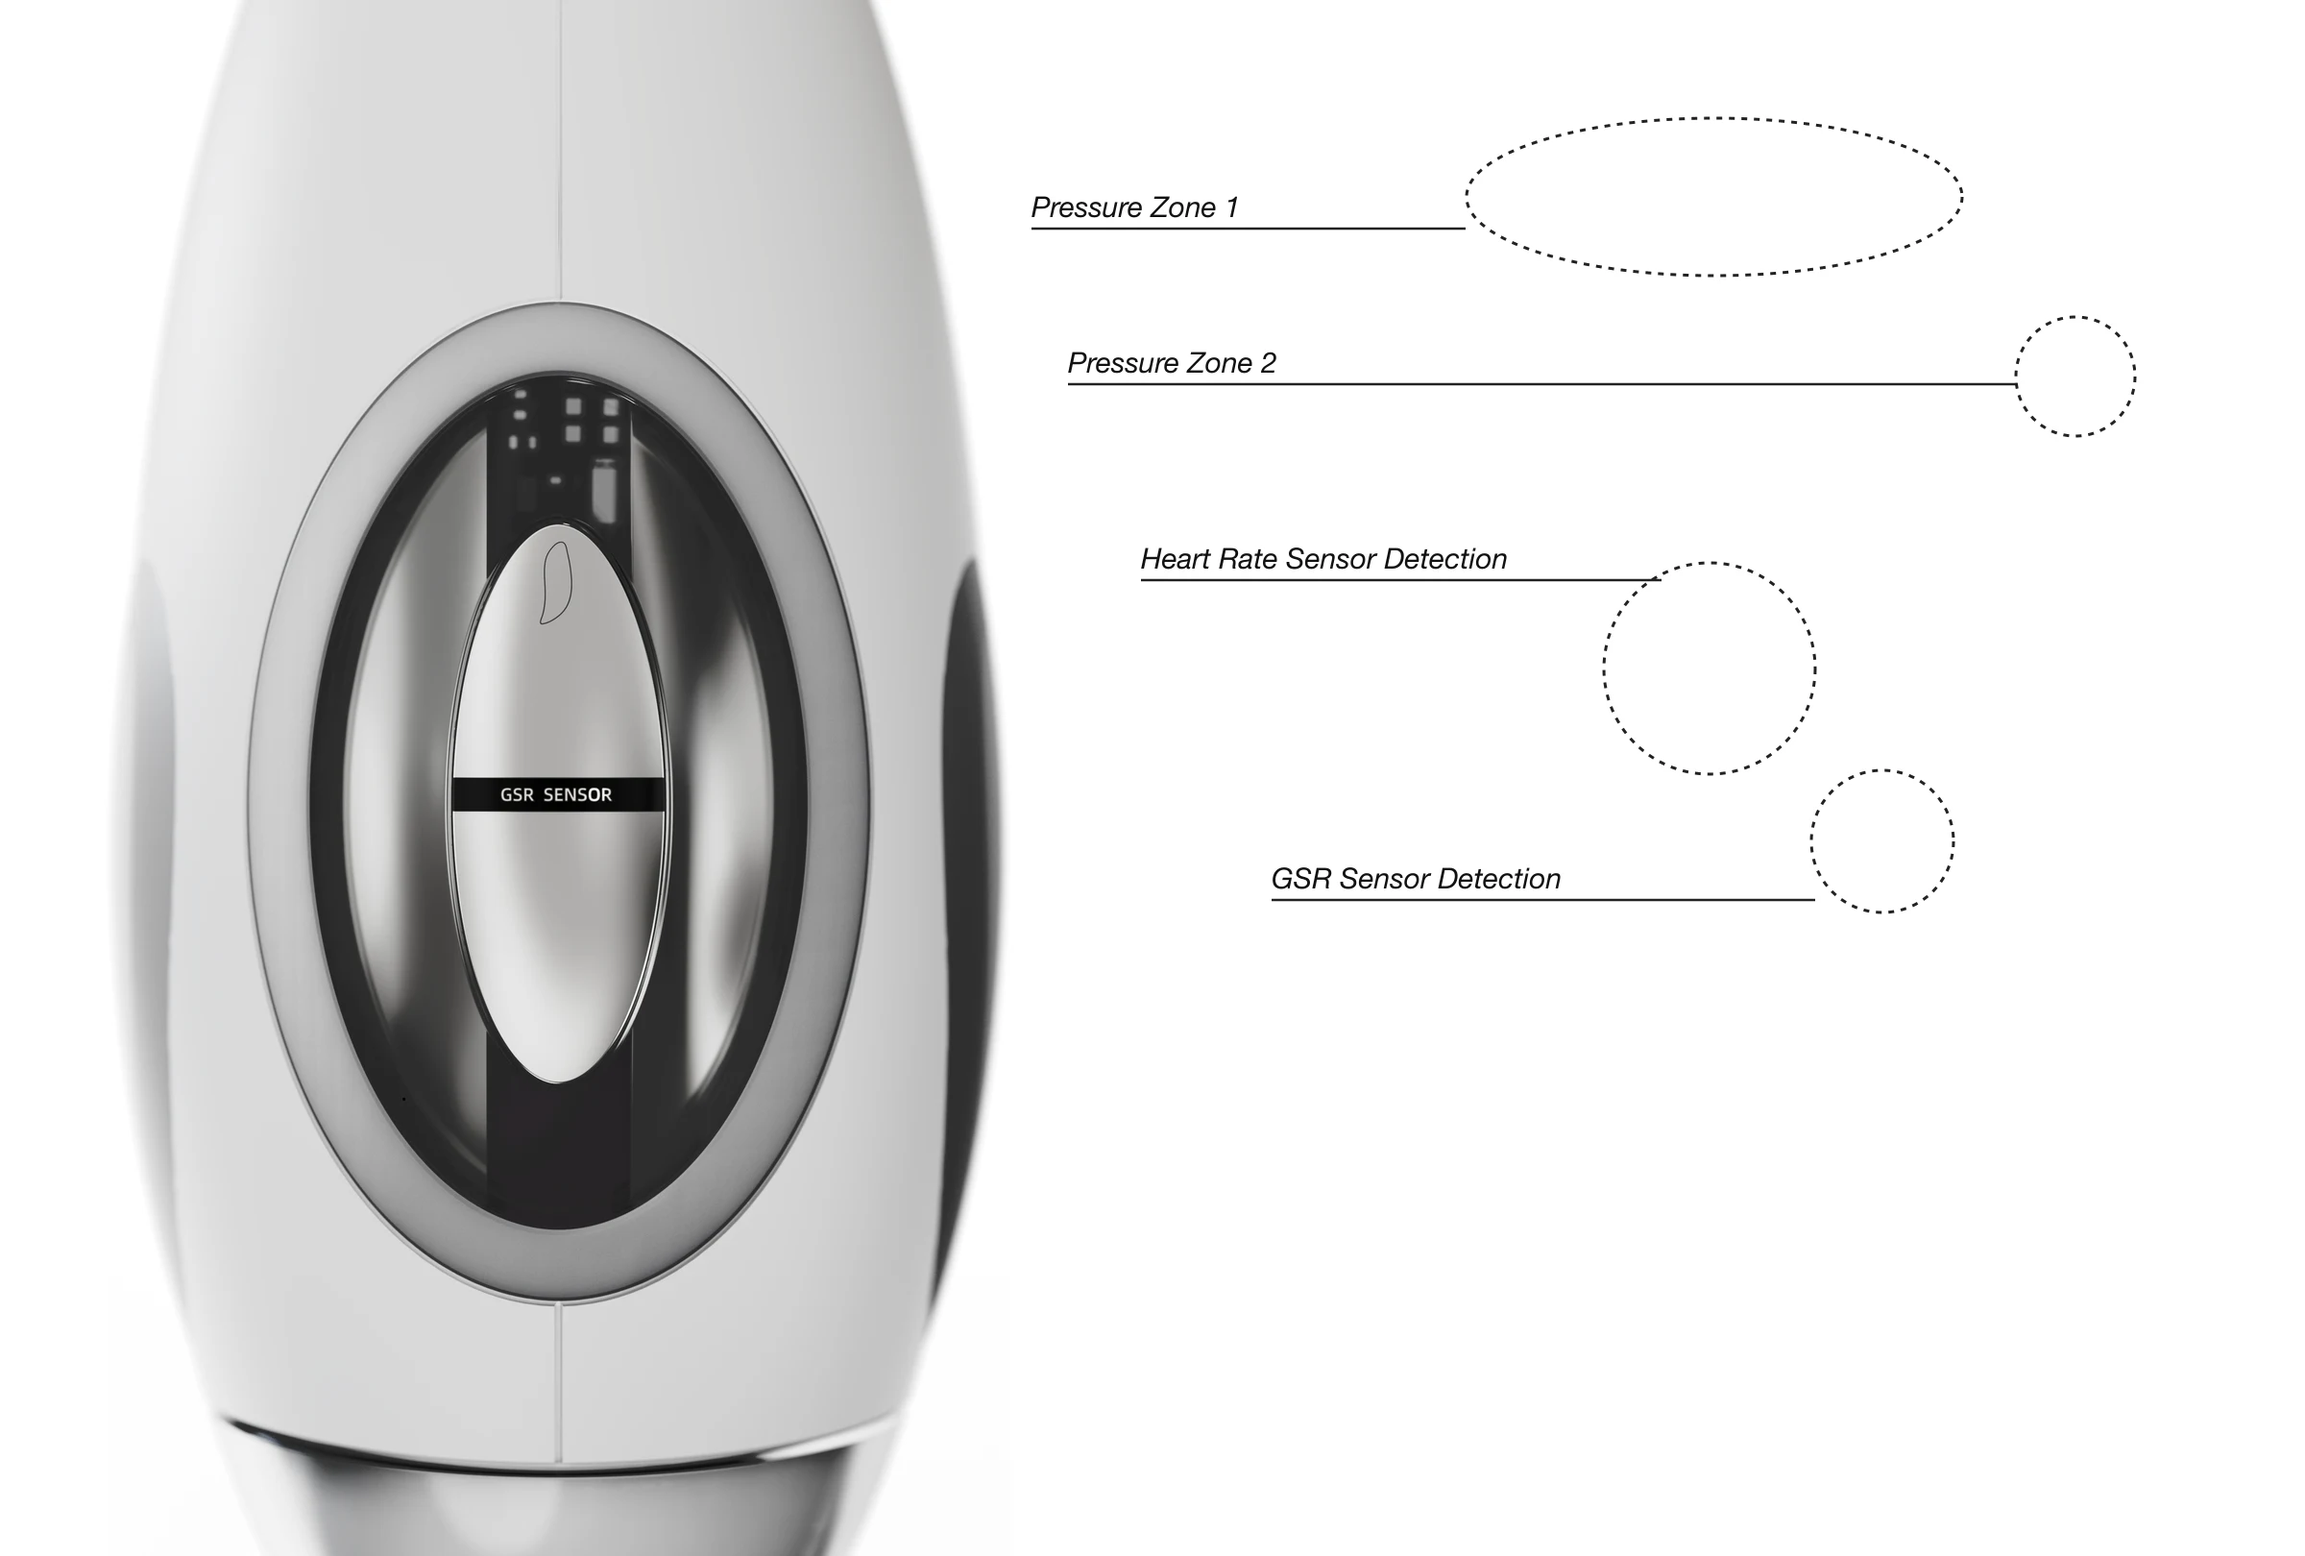
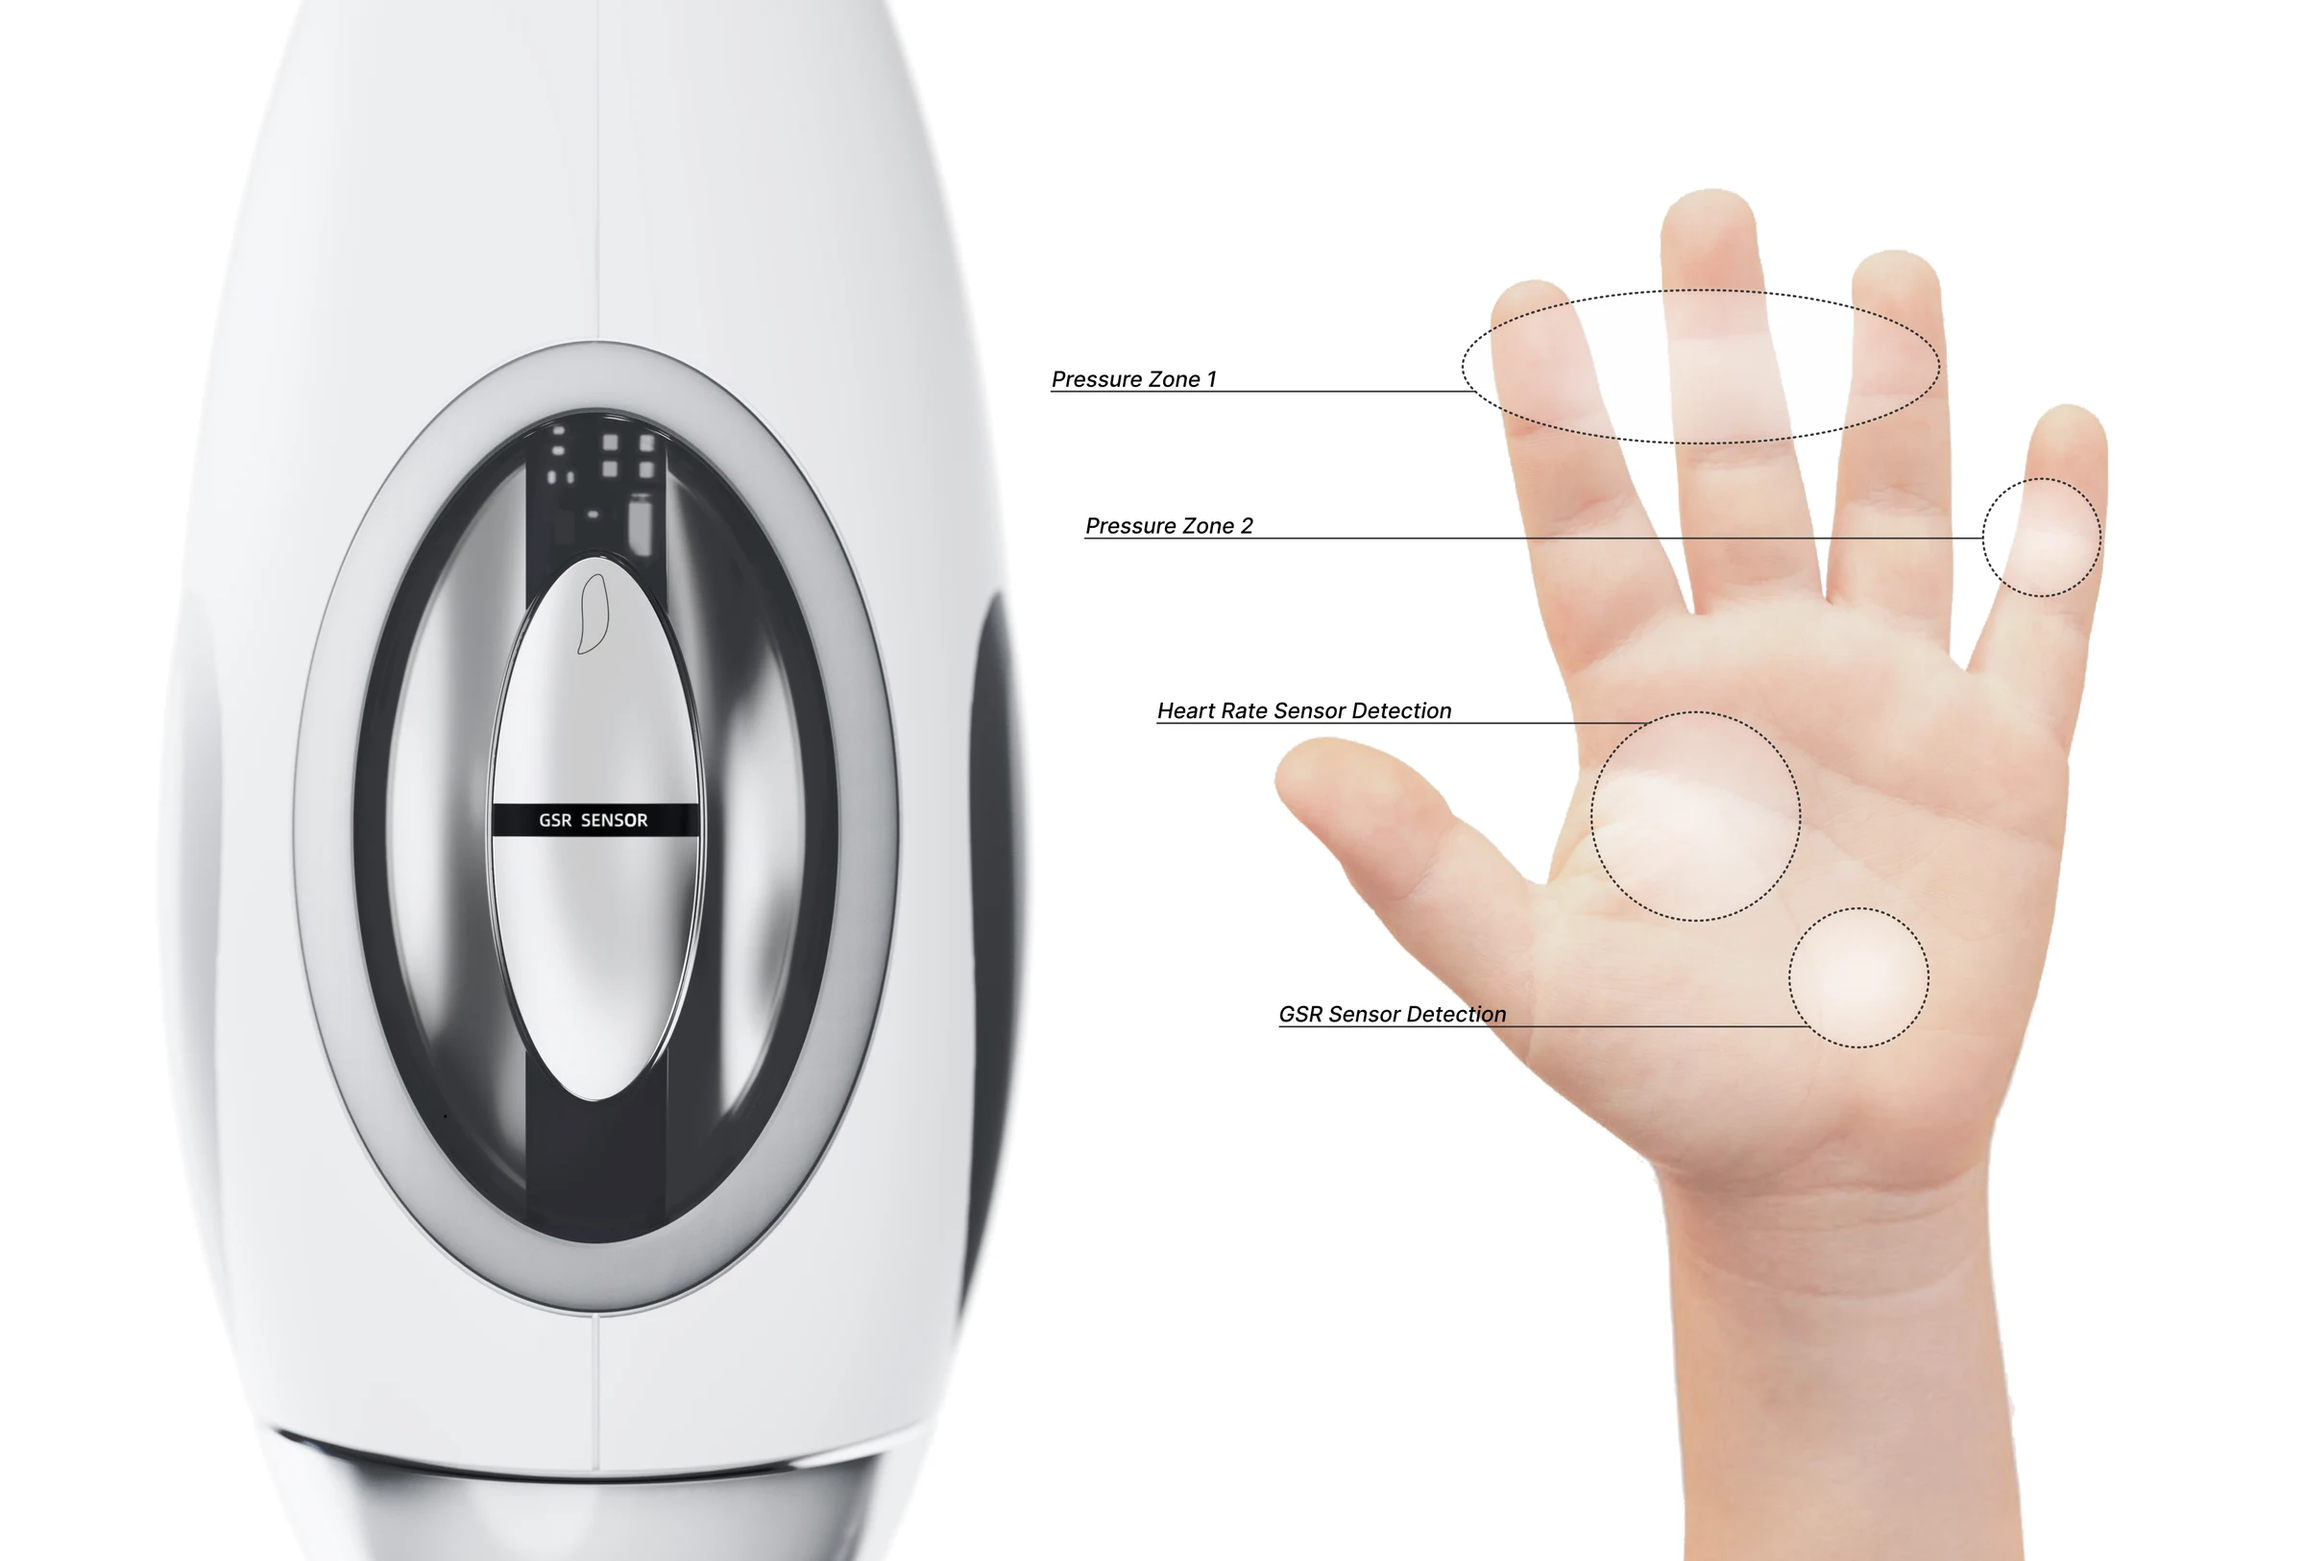
Take the supplied sensing and ergonomics panel
Malik's version puts the real hand back in, so the four callouts point
at an actual palm instead of floating in space. Flattened onto white
and resized to the 2400px the other panels use.

The master goes to moodmuse-assets/manual/ with the other supplied
images, and scripts/moodmuse-sensing.mjs is retired: it would
overwrite this on re-run, the same reason the hero script went.

Alt text updated, since the panel now has a hand in it to describe.

diff --git a/src/components/project-detail/MoodMuseHighlights.tsx b/src/components/project-detail/MoodMuseHighlights.tsx
@@ -30,7 +30,7 @@ const artifacts = [
   },
   {
     src: moodmuseSensingErgonomics,
-    alt: "The brush's GSR sensing window beside four callouts: Pressure Zone 1, Pressure Zone 2, Heart Rate Sensor Detection, and GSR Sensor Detection",
+    alt: "The brush's GSR sensing window beside an open child's palm, marked with Pressure Zone 1 across the fingers, Pressure Zone 2 on the little finger, and the heart rate and GSR sensor detection areas on the pad below",
     caption: "Sensors where the hand already presses — the two pressure zones double as the contact points",
   },
   {
